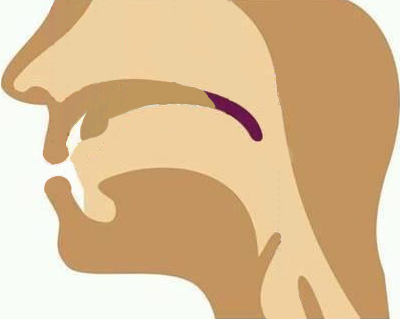
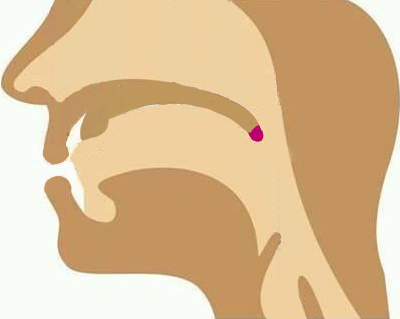
images pt2

Changed region(s): [[0.48, 0.2821, 0.66, 0.4514]]

diff --git a/src/components/App.svelte b/src/components/App.svelte
@@ -1,11 +1,28 @@
 <script>
-    function clicking(row,col, voic){
-        let fileName = "src/media/consonants/" + row + '-' + col + '-' + voic+ '.wav';
+
+    function audioPlay(fn){
         let sound = document.getElementById('cons');
-        sound.src = fileName;
+        sound.src = fn;
         sound.play()
+    }
+
+    function imgUpdate(fn){
+        img_src = fn
+    }
+    function clicking(row,col, voic){
+        let fileName_aud = "src/media/consonants/" + row + '-' + col + '-' + voic+ '.wav';
+        let fileName_img = "src/media/images/viz_" + col + '.png';
+
+        audioPlay(fileName_aud)
+        if  (['dent', 'labdent', 'phar'].includes(col)){
+            fileName_img = "src/media/images/viz_default.png"
+        }
+        imgUpdate(fileName_img)
         console.log(row, col, voic)
     }
+    let img_src = "src/media/images/viz_default.png"
+    
+    
 </script>
 <audio id= 'cons'></audio>
 <body>
@@ -228,12 +245,17 @@
 
 
     <!---img... dont know why its not working-->
-    <img src = "src/media/viz_default.png">
+    <img src = {img_src} class = 'con_image' alt = "oops">
     <a href='https://phonetics.ucla.edu/course/chapter1/chapter1.html'>Link to audio file dataset here </a>
 </body>
 
 <style>
     .right{
         text-align: right;
+    }
+    .con_image{
+        position: absolute;
+        left:1020px;
+        top:100px;
     }
 </style>
